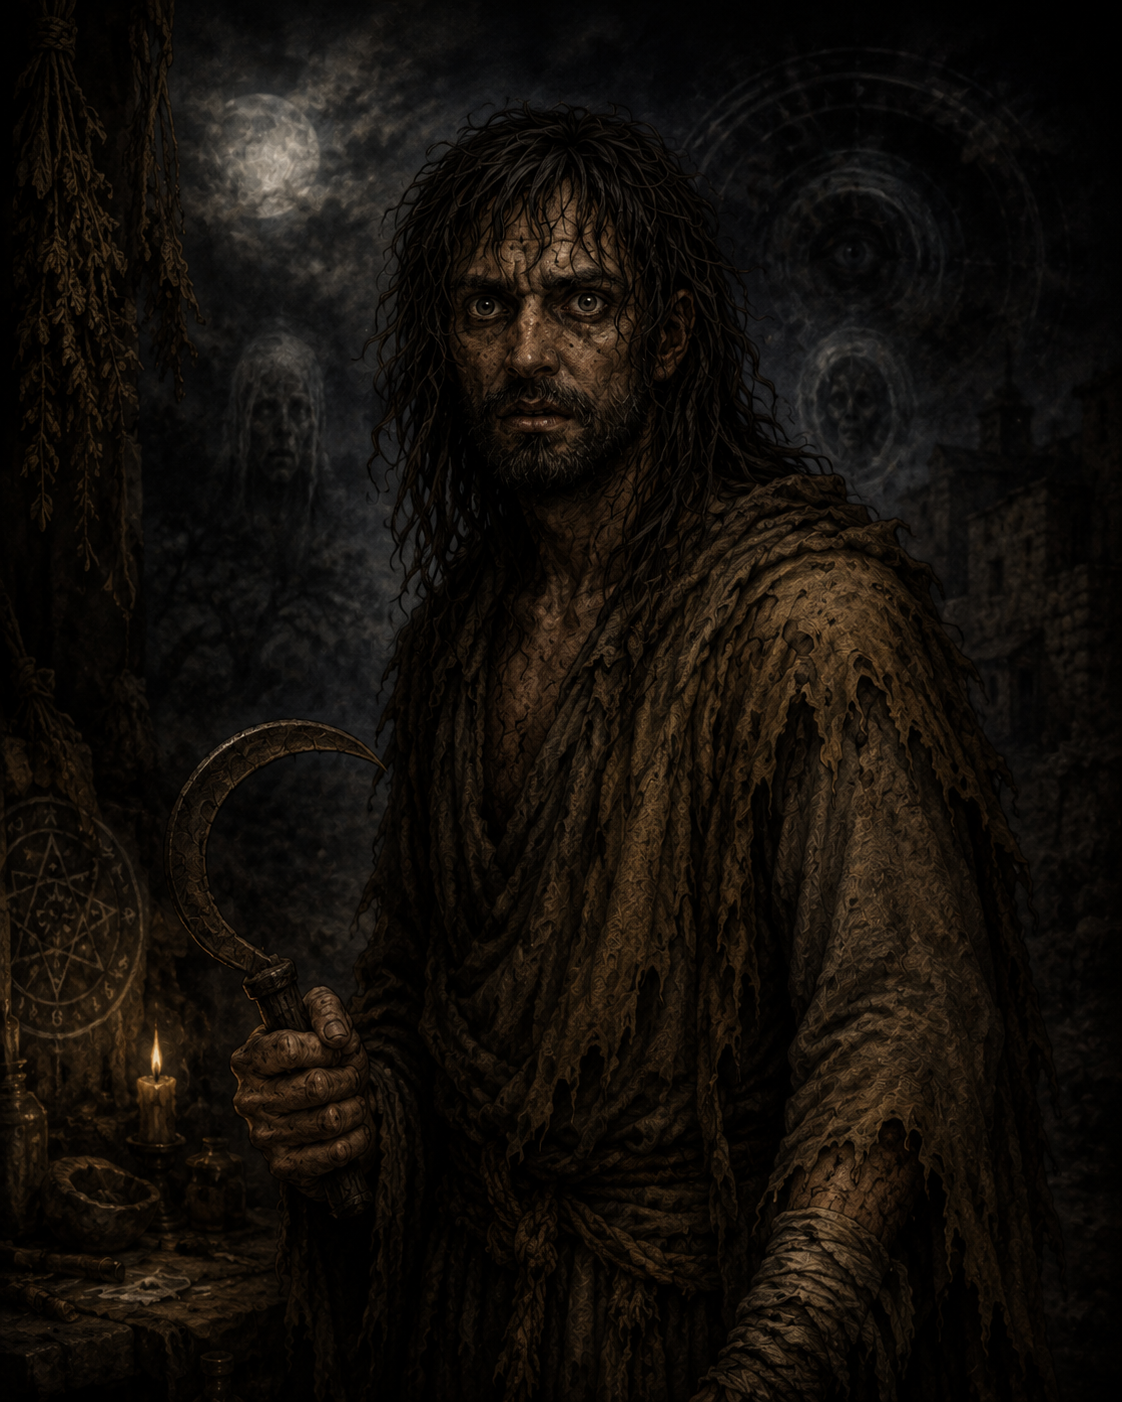
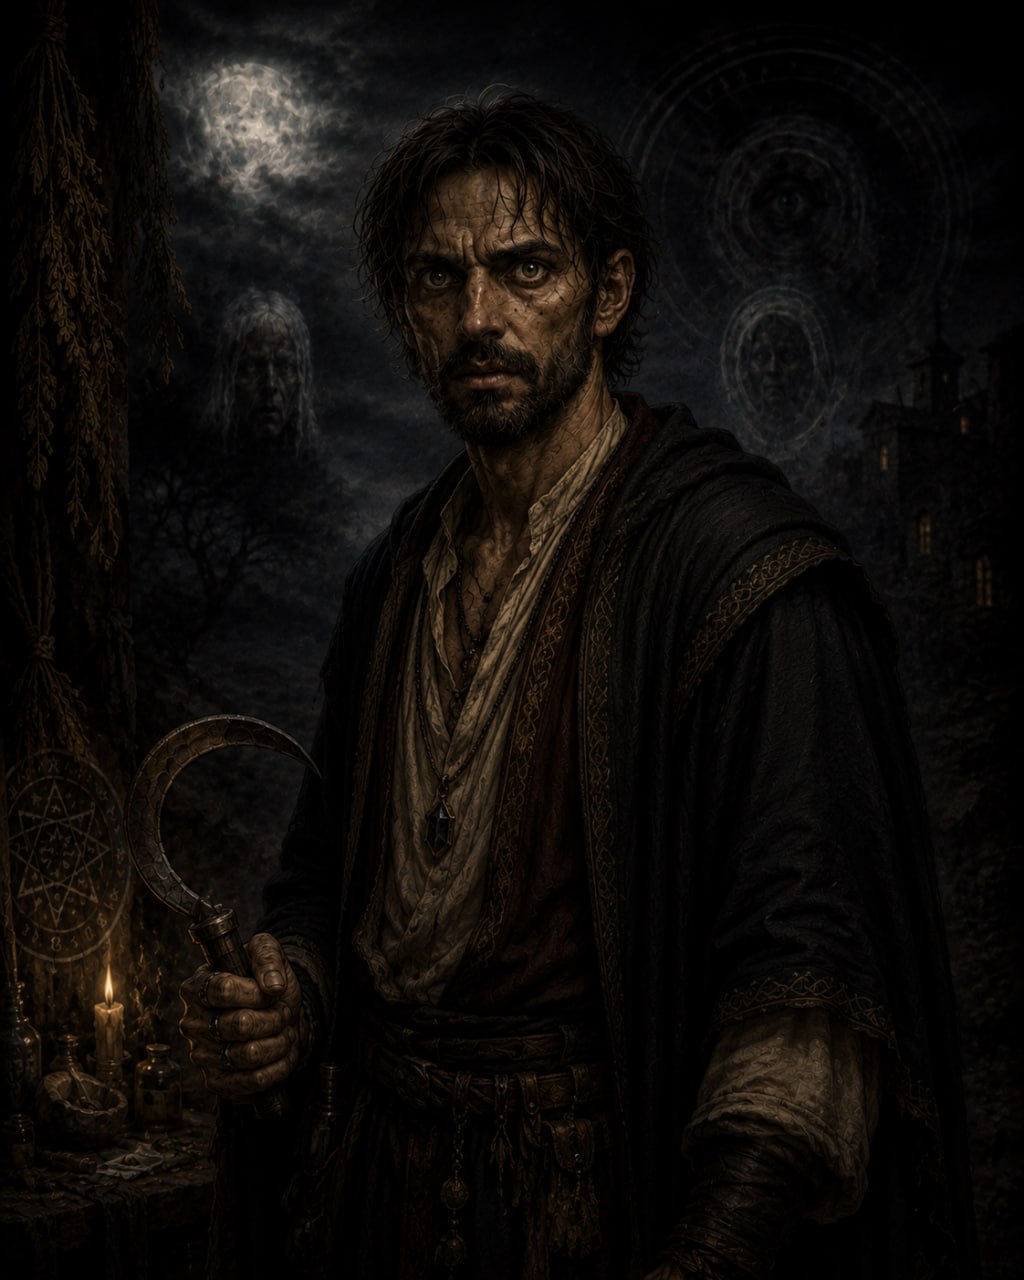
New portrait for Bakhit; keep headcrop.swift in tools/

diff --git a/tools/headcrop.swift b/tools/headcrop.swift
@@ -1,0 +1,104 @@
+import Foundation
+import CoreGraphics
+import ImageIO
+import Vision
+import UniformTypeIdentifiers
+
+// Usage: swift headcrop.swift <input> <output> [--size N]
+// Crops a square head close-up from a portrait image using Vision:
+// human face -> animal -> attention saliency -> top-center fallback.
+
+let args = CommandLine.arguments
+guard args.count >= 3 else {
+    FileHandle.standardError.write("usage: headcrop <input> <output> [--size N]\n".data(using: .utf8)!)
+    exit(2)
+}
+let inputURL = URL(fileURLWithPath: args[1])
+let outputURL = URL(fileURLWithPath: args[2])
+var outSize = 320
+if let i = args.firstIndex(of: "--size"), i + 1 < args.count, let n = Int(args[i + 1]) { outSize = n }
+
+guard let src = CGImageSourceCreateWithURL(inputURL as CFURL, nil),
+      let image = CGImageSourceCreateImageAtIndex(src, 0, nil) else {
+    FileHandle.standardError.write("cannot read \(inputURL.path)\n".data(using: .utf8)!)
+    exit(1)
+}
+
+let W = CGFloat(image.width)
+let H = CGFloat(image.height)
+
+// Vision boxes are normalized, origin at bottom-left.
+func denormalize(_ r: CGRect) -> CGRect {
+    CGRect(x: r.minX * W, y: (1 - r.maxY) * H, width: r.width * W, height: r.height * H)
+}
+
+func detect<T: VNObservation>(_ request: VNImageBasedRequest, as type: T.Type) -> [T] {
+    let handler = VNImageRequestHandler(cgImage: image, options: [:])
+    do { try handler.perform([request]) } catch { return [] }
+    return (request.results as? [T]) ?? []
+}
+
+var cropCenter: CGPoint
+var cropSide: CGFloat
+var method: String
+
+let faces = detect(VNDetectFaceRectanglesRequest(), as: VNFaceObservation.self)
+if let face = faces.max(by: { $0.boundingBox.width < $1.boundingBox.width }) {
+    // Face box covers brows-to-chin; expand to take in hair, ears, a bit of shoulders.
+    let f = denormalize(face.boundingBox)
+    cropCenter = CGPoint(x: f.midX, y: f.midY - f.height * 0.12)
+    cropSide = max(f.width, f.height) * 2.1
+    method = "face"
+} else {
+    let animals = detect(VNRecognizeAnimalsRequest(), as: VNRecognizedObjectObservation.self)
+    if let animal = animals.max(by: { $0.boundingBox.width * $0.boundingBox.height < $1.boundingBox.width * $1.boundingBox.height }) {
+        // Whole-body box; the head is almost always in the upper part.
+        let a = denormalize(animal.boundingBox)
+        cropSide = min(max(a.width, a.height) * 0.75, min(W, H))
+        cropCenter = CGPoint(x: a.midX, y: a.minY + cropSide * 0.42)
+        method = "animal"
+    } else {
+        let saliency = detect(VNGenerateAttentionBasedSaliencyImageRequest(), as: VNSaliencyImageObservation.self)
+        if let s = saliency.first, let box = s.salientObjects?.max(by: { $0.boundingBox.width * $0.boundingBox.height < $1.boundingBox.width * $1.boundingBox.height }) {
+            let b = denormalize(box.boundingBox)
+            cropSide = min(max(b.width, b.height) * 0.9, min(W, H))
+            // Bias toward the upper part of the salient region, where a head usually is.
+            cropCenter = CGPoint(x: b.midX, y: b.minY + cropSide * 0.45)
+            method = "saliency"
+        } else {
+            cropSide = min(W, H) * 0.6
+            cropCenter = CGPoint(x: W / 2, y: cropSide * 0.5 + H * 0.05)
+            method = "fallback"
+        }
+    }
+}
+
+cropSide = min(cropSide, min(W, H))
+var x = cropCenter.x - cropSide / 2
+var y = cropCenter.y - cropSide / 2
+x = max(0, min(x, W - cropSide))
+y = max(0, min(y, H - cropSide))
+let cropRect = CGRect(x: x, y: y, width: cropSide, height: cropSide).integral
+
+guard let cropped = image.cropping(to: cropRect) else {
+    FileHandle.standardError.write("crop failed\n".data(using: .utf8)!)
+    exit(1)
+}
+
+// Resize to outSize x outSize.
+let ctx = CGContext(data: nil, width: outSize, height: outSize, bitsPerComponent: 8, bytesPerRow: 0,
+                    space: CGColorSpace(name: CGColorSpace.sRGB)!,
+                    bitmapInfo: CGImageAlphaInfo.noneSkipLast.rawValue)!
+ctx.interpolationQuality = .high
+ctx.draw(cropped, in: CGRect(x: 0, y: 0, width: outSize, height: outSize))
+guard let out = ctx.makeImage(),
+      let dest = CGImageDestinationCreateWithURL(outputURL as CFURL, UTType.jpeg.identifier as CFString, 1, nil) else {
+    FileHandle.standardError.write("encode failed\n".data(using: .utf8)!)
+    exit(1)
+}
+CGImageDestinationAddImage(dest, out, [kCGImageDestinationLossyCompressionQuality: 0.85] as CFDictionary)
+guard CGImageDestinationFinalize(dest) else {
+    FileHandle.standardError.write("write failed\n".data(using: .utf8)!)
+    exit(1)
+}
+print("\(method) \(Int(cropRect.width))px @\(Int(cropRect.minX)),\(Int(cropRect.minY)) -> \(outputURL.lastPathComponent)")
